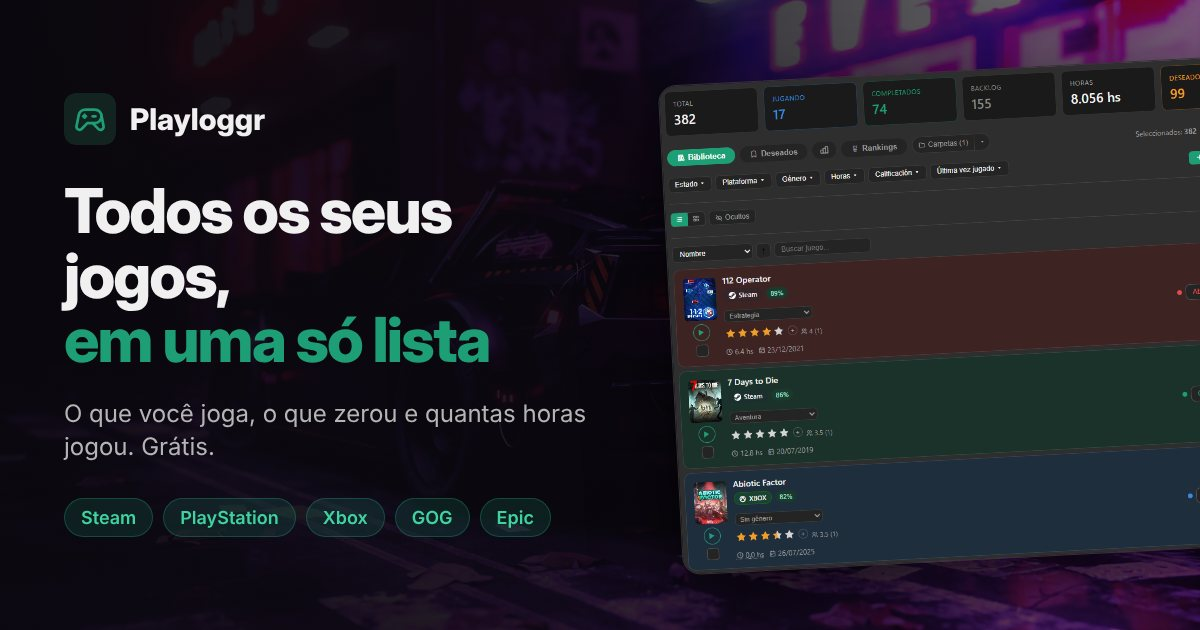
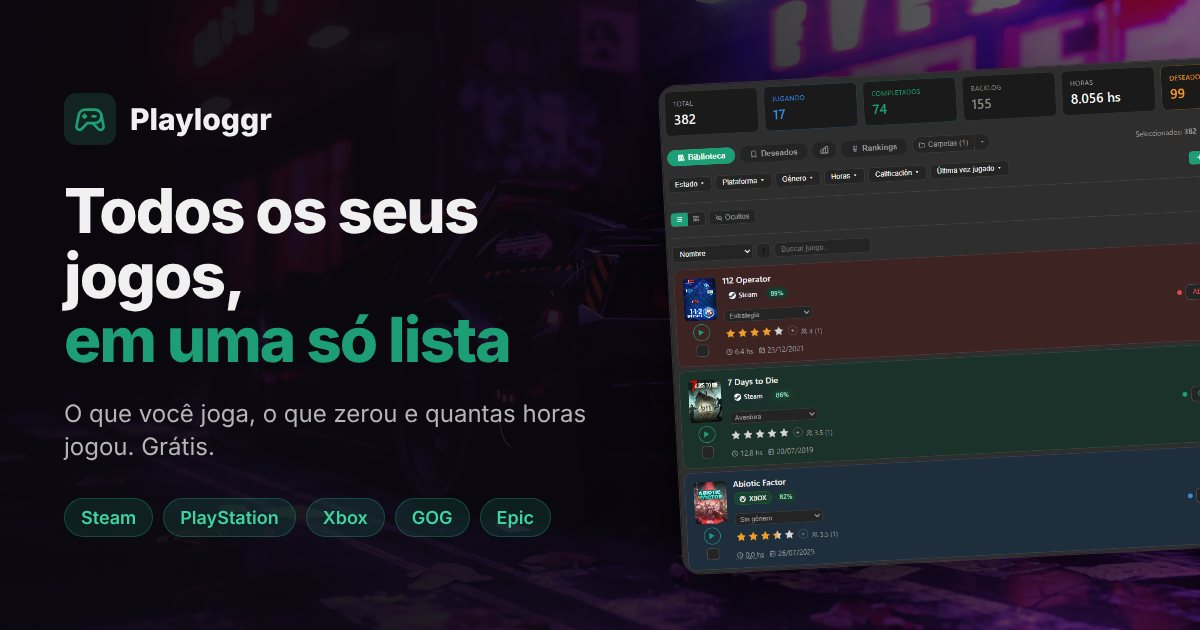
tools/og-cover: generador de las imagenes de vista previa
node tools/og-cover/render.js regenera assets/og-cover(.jpg/-en/-pt) desde
og.html (textos por idioma + captura de biblioteca). Imagenes regeneradas
con el script (mismo diseno). .gitignore para node_modules.

Claude-Session: https://claude.ai/code/session_01LExBQhK85tVRA8d1PUWsv5

Changed region(s): [[0.0617, 0.3921, 0.4317, 0.573], [0.0617, 0.3016, 0.4008, 0.3921], [0.1233, 0.181, 0.2467, 0.2413]]

diff --git a/tools/og-cover/og.html b/tools/og-cover/og.html
@@ -1,0 +1,27 @@
+<!doctype html><html><head><meta charset="utf-8"><link rel="stylesheet" href="https://fonts.googleapis.com/css2?family=Inter:wght@400;600;800&display=block"><style>
+*{margin:0;box-sizing:border-box}
+body{width:1200px;height:630px;overflow:hidden;font-family:Inter;color:#f0f0f0;background:#111;position:relative}
+.bg{position:absolute;inset:0;background:linear-gradient(90deg,rgba(10,8,14,.96) 0%,rgba(10,8,14,.9) 45%,rgba(10,8,14,.55) 100%),url(../../assets/hero-bg.jpg) center/cover}
+.left{position:absolute;left:64px;top:0;bottom:0;width:560px;display:flex;flex-direction:column;justify-content:center}
+.logo{display:flex;align-items:center;gap:14px;font-weight:800;font-size:30px;margin-bottom:34px}
+.logo img{width:52px;height:52px;border-radius:12px}
+h1{font-size:62px;font-weight:800;line-height:1.04;letter-spacing:-.03em;margin-bottom:24px}
+h1 span{color:#1D9E75}
+.sub{font-size:24px;color:#b5b5b5;line-height:1.4;margin-bottom:34px}
+.pl{display:flex;flex-wrap:wrap;gap:10px}
+.pl b{font-weight:600;font-size:18px;padding:8px 16px;border-radius:30px;background:rgba(29,158,117,.16);color:#3fd3a0;border:1px solid rgba(29,158,117,.35)}
+.shot{position:absolute;right:-70px;top:70px;width:600px;border-radius:18px;border:1px solid #333;box-shadow:0 30px 80px rgba(0,0,0,.7);transform:rotate(-3deg)}
+.shot2{position:absolute;right:300px;top:330px;width:230px;border-radius:14px;border:1px solid #333;box-shadow:0 20px 60px rgba(0,0,0,.8);transform:rotate(4deg)}
+</style></head><body><div class="bg"></div>
+<img class="shot" src="../../assets/screenshots/biblioteca.png">
+<div class="left">
+<div class="logo"><img src="../../favicon.svg">Playloggr</div>
+<h1 id="t"></h1><div class="sub" id="s"></div>
+<div class="pl"><b>Steam</b><b>PlayStation</b><b>Xbox</b><b>GOG</b><b>Epic</b></div>
+</div>
+<script>
+const L={es:['Todos tus juegos,<br><span>en una sola lista</span>','Qué jugás, qué terminaste y cuántas horas le metiste. Gratis.'],
+en:['All your games,<br><span>in one list</span>','What you play, what you finished and how many hours you put in. Free.'],
+pt:['Todos os seus jogos,<br><span>em uma só lista</span>','O que você joga, o que zerou e quantas horas jogou. Grátis.']};
+const l=L[location.hash.slice(1)];document.getElementById('t').innerHTML=l[0];document.getElementById('s').textContent=l[1];
+</script></body></html>

diff --git a/tools/og-cover/render.js b/tools/og-cover/render.js
@@ -1,0 +1,19 @@
+// Regenera assets/og-cover.jpg, og-cover-en.jpg y og-cover-pt.jpg (1200x630).
+// Uso (desde la raiz del repo web, con Node):
+//   npm i -D playwright   (o global)   y   npx playwright install chromium
+//   node tools/og-cover/render.js
+// Textos: editar el objeto L en og.html. Captura de fondo: assets/screenshots/biblioteca.png
+// JPG calidad ~84 para quedar < 100 KB (WhatsApp no muestra previews > ~300 KB).
+const { chromium } = require('playwright');
+const path = require('path');
+(async () => {
+  const b = await chromium.launch();
+  const p = await b.newPage({ viewport: { width: 1200, height: 630 } });
+  const html = 'file://' + path.join(__dirname, 'og.html');
+  for (const [lang, out] of [['es', 'og-cover.jpg'], ['en', 'og-cover-en.jpg'], ['pt', 'og-cover-pt.jpg']]) {
+    await p.goto(html + '#' + lang); await p.reload(); await p.waitForTimeout(800);
+    await p.screenshot({ path: path.join(__dirname, '../../assets', out), type: 'jpeg', quality: 84 });
+    console.log('ok', out);
+  }
+  await b.close();
+})();
